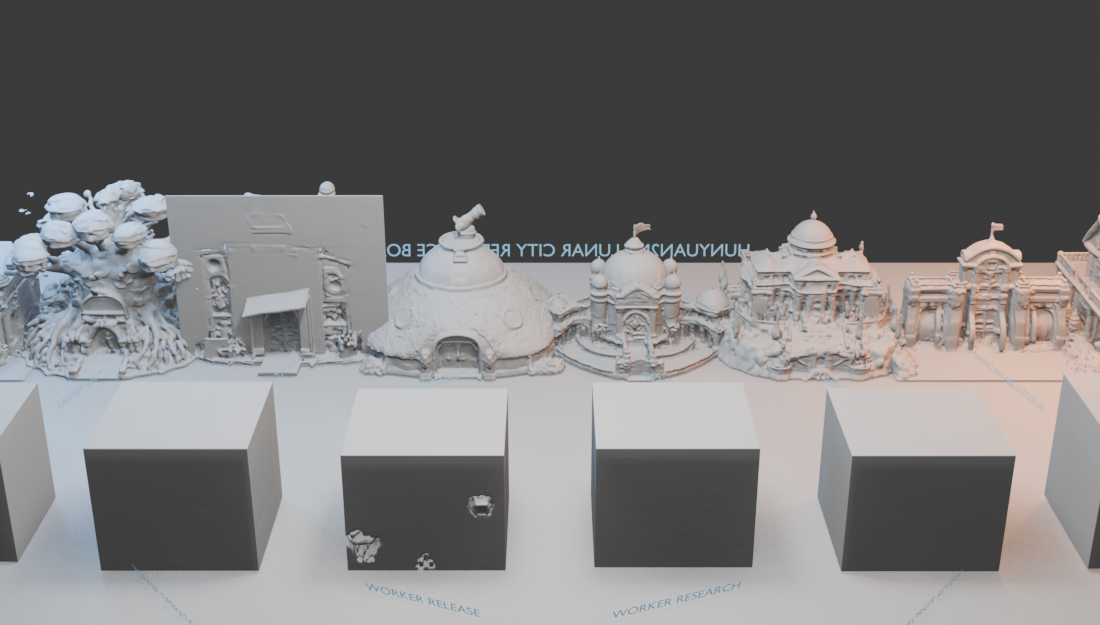
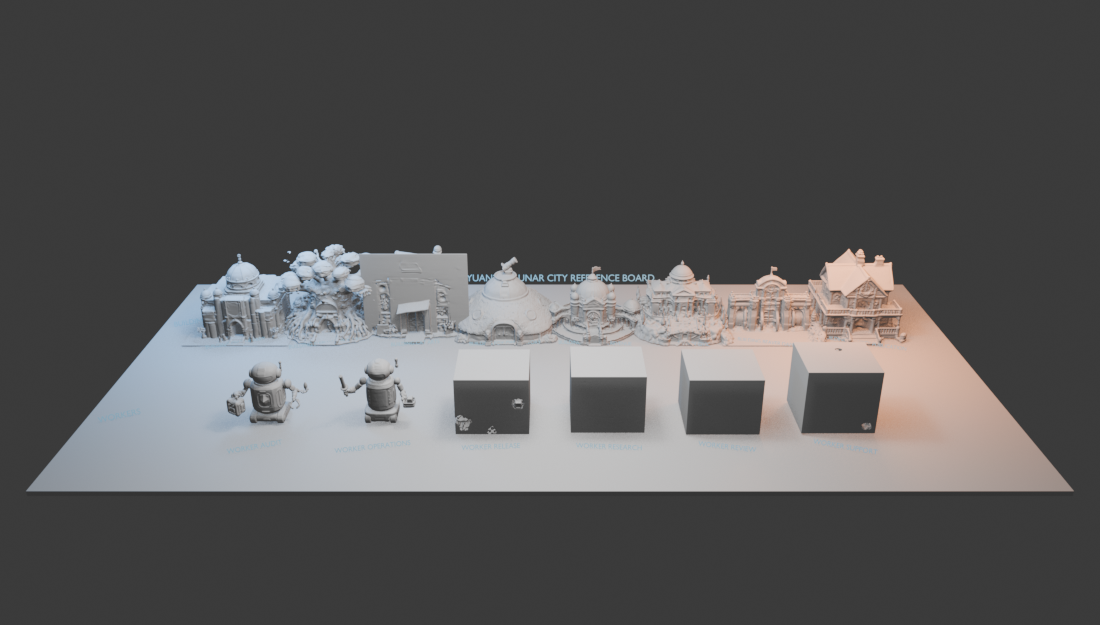
fix: regenerate safe Hunyuan reference preview

diff --git a/apps/desktop/scripts/build_lunar_city_hunyuan_reference_board.py b/apps/desktop/scripts/build_lunar_city_hunyuan_reference_board.py
@@ -5,6 +5,8 @@ from __future__ import annotations
 
 import json
 import math
+import shutil
+import subprocess
 from pathlib import Path
 
 import bpy
@@ -83,7 +85,12 @@ def normalize(objects: list[bpy.types.Object], target: float, location: tuple[fl
         obj.location.z -= low.z
 
 
-def label(text: str, location: tuple[float, float, float], size: float = 0.18) -> None:
+def label(
+    text: str,
+    location: tuple[float, float, float],
+    size: float = 0.18,
+    asset_id: str | None = None,
+) -> bpy.types.Object:
     bpy.ops.object.text_add(location=location)
     obj = bpy.context.object
     obj.name = f"label_{text.lower().replace('-', '_').replace(' ', '_')}"
@@ -101,7 +108,13 @@ def label(text: str, location: tuple[float, float, float], size: float = 0.18) -
         bsdf.inputs["Emission Strength"].default_value = 0.35
     obj.data.materials.append(material)
     direction = Vector((0, -22, 12)) - Vector(location)
-    obj.rotation_euler = direction.to_track_quat("-Z", "Y").to_euler()
+    # Blender text faces local +Z. Tracking -Z makes the render readable only
+    # from behind and produces mirrored labels in the review preview.
+    obj.rotation_euler = direction.to_track_quat("Z", "Y").to_euler()
+    obj["reference_only"] = True
+    if asset_id:
+        obj["lunar_city_asset_id"] = asset_id
+    return obj
 
 
 def import_reference(asset_id: str, kind: str, filename: str, index: int) -> dict:
@@ -129,7 +142,7 @@ def import_reference(asset_id: str, kind: str, filename: str, index: int) -> dic
                 existing.objects.unlink(obj)
         obj["lunar_city_asset_id"] = asset_id
         obj["reference_only"] = True
-    label(asset_id, (x, row_y - 1.35, 0.05), 0.14 if kind == "building" else 0.16)
+    label(asset_id, (x, row_y - 1.35, 0.05), 0.14 if kind == "building" else 0.16, asset_id)
     low, high, dims = bounds(meshes)
     return {
         "id": asset_id,
@@ -193,10 +206,45 @@ def setup_scene() -> None:
 
 def export_board() -> None:
     bpy.ops.object.select_all(action="DESELECT")
+
+
+def strip_render_metadata() -> None:
+    """Remove Blender's workstation path and render-stamp chunks from PNG output."""
+    sips = shutil.which("sips")
+    if sips is None:
+        return
+    clean = BOARD_RENDER.with_name(f"{BOARD_RENDER.stem}.clean{BOARD_RENDER.suffix}")
+    subprocess.run(
+        [sips, "-s", "format", "png", str(BOARD_RENDER), "--out", str(clean)],
+        check=True,
+        stdout=subprocess.DEVNULL,
+        stderr=subprocess.DEVNULL,
+    )
+    clean.replace(BOARD_RENDER)
+    labels = [obj for obj in bpy.context.scene.objects if obj.type == "FONT"]
+    for obj in labels:
+        obj.select_set(True)
+    if labels:
+        bpy.context.view_layer.objects.active = labels[0]
+        # glTF has no native text primitive. Export mesh copies so the review
+        # board carries the visible asset identifiers without mutating the
+        # editable text objects saved in the .blend.
+        bpy.ops.object.duplicate()
+        bpy.ops.object.convert(target="MESH")
+        for obj in bpy.context.selected_objects:
+            obj.name = f"{obj.name}_export"
     for obj in bpy.context.scene.objects:
-        if obj.type in {"MESH", "EMPTY"} and not obj.name.startswith("label_"):
+        if obj.type in {"MESH", "EMPTY"}:
             obj.select_set(True)
-    bpy.ops.export_scene.gltf(filepath=str(BOARD_GLB), export_format="GLB", use_selection=True)
+    bpy.ops.export_scene.gltf(
+        filepath=str(BOARD_GLB),
+        export_format="GLB",
+        use_selection=True,
+        export_extras=True,
+    )
+    for obj in bpy.context.scene.objects:
+        if obj.name.endswith("_export"):
+            bpy.data.objects.remove(obj, do_unlink=True)
     bpy.ops.object.select_all(action="DESELECT")
 
 
@@ -213,14 +261,17 @@ def main() -> None:
         "schemaVersion": 1,
         "generator": "build_lunar_city_hunyuan_reference_board.py",
         "status": "reference_only",
-        "blend": str(BOARD_BLEND.relative_to(GENERATED)),
-        "glb": str(BOARD_GLB.relative_to(GENERATED)),
+        # The editable .blend and exported .glb are local build products. Keep
+        # them out of the repository while still producing them for inspection.
+        "blend": None,
+        "glb": None,
         "preview": str(BOARD_RENDER.relative_to(GENERATED)),
         "assets": assets,
         "notes": [
             "Hunyuan3D-2mv shape-only reference pass from approved 2x2 turnarounds.",
             "Plan views were retained as QA references but not mislabeled as elevations.",
             "Meshes require visual review, retopology, PBR baking, scale/collision checks, and LODs before production promotion.",
+            "The builder emits local .blend/.glb products; only this metadata and the inspected preview are tracked.",
         ],
     }
     BOARD_METADATA.write_text(json.dumps(metadata, indent=2, sort_keys=True) + "\n")
@@ -228,6 +279,7 @@ def main() -> None:
     export_board()
     bpy.context.scene.render.filepath = str(BOARD_RENDER)
     bpy.ops.render.render(write_still=True)
+    strip_render_metadata()
     print(json.dumps({"imported": sum(item["status"] == "imported" for item in assets), "missing": sum(item["status"] == "missing" for item in assets), "blend": str(BOARD_BLEND), "preview": str(BOARD_RENDER)}))
 
 
